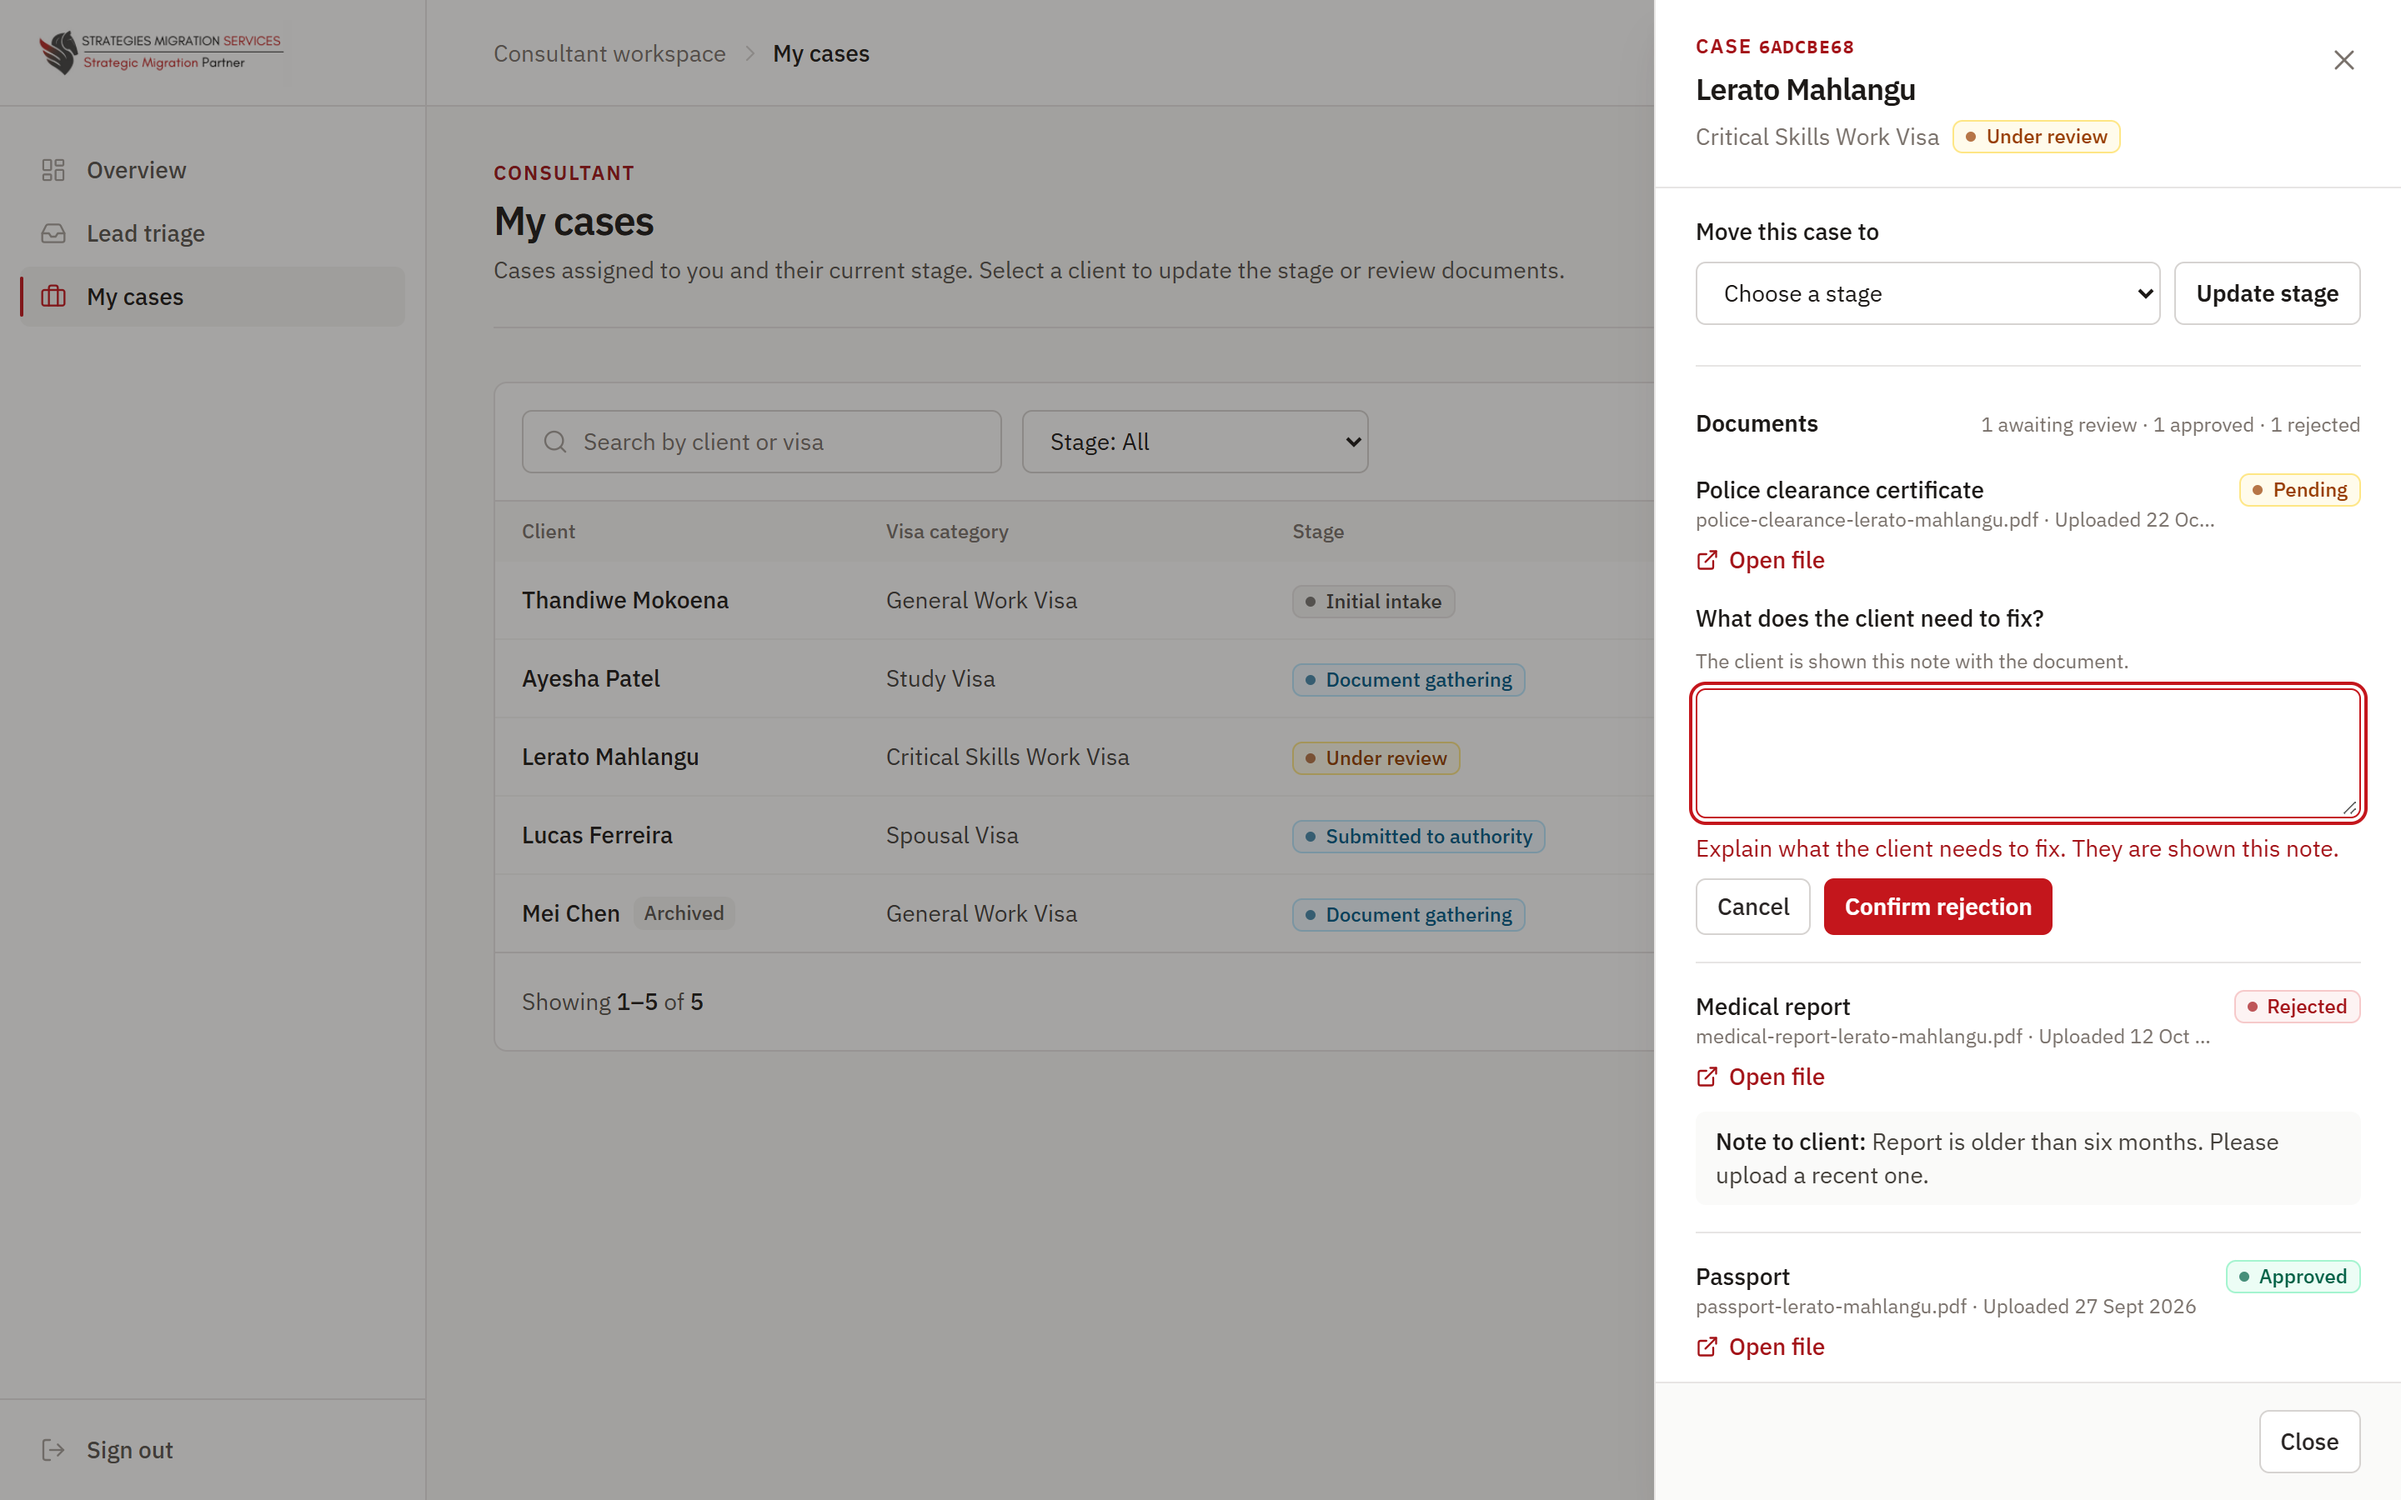
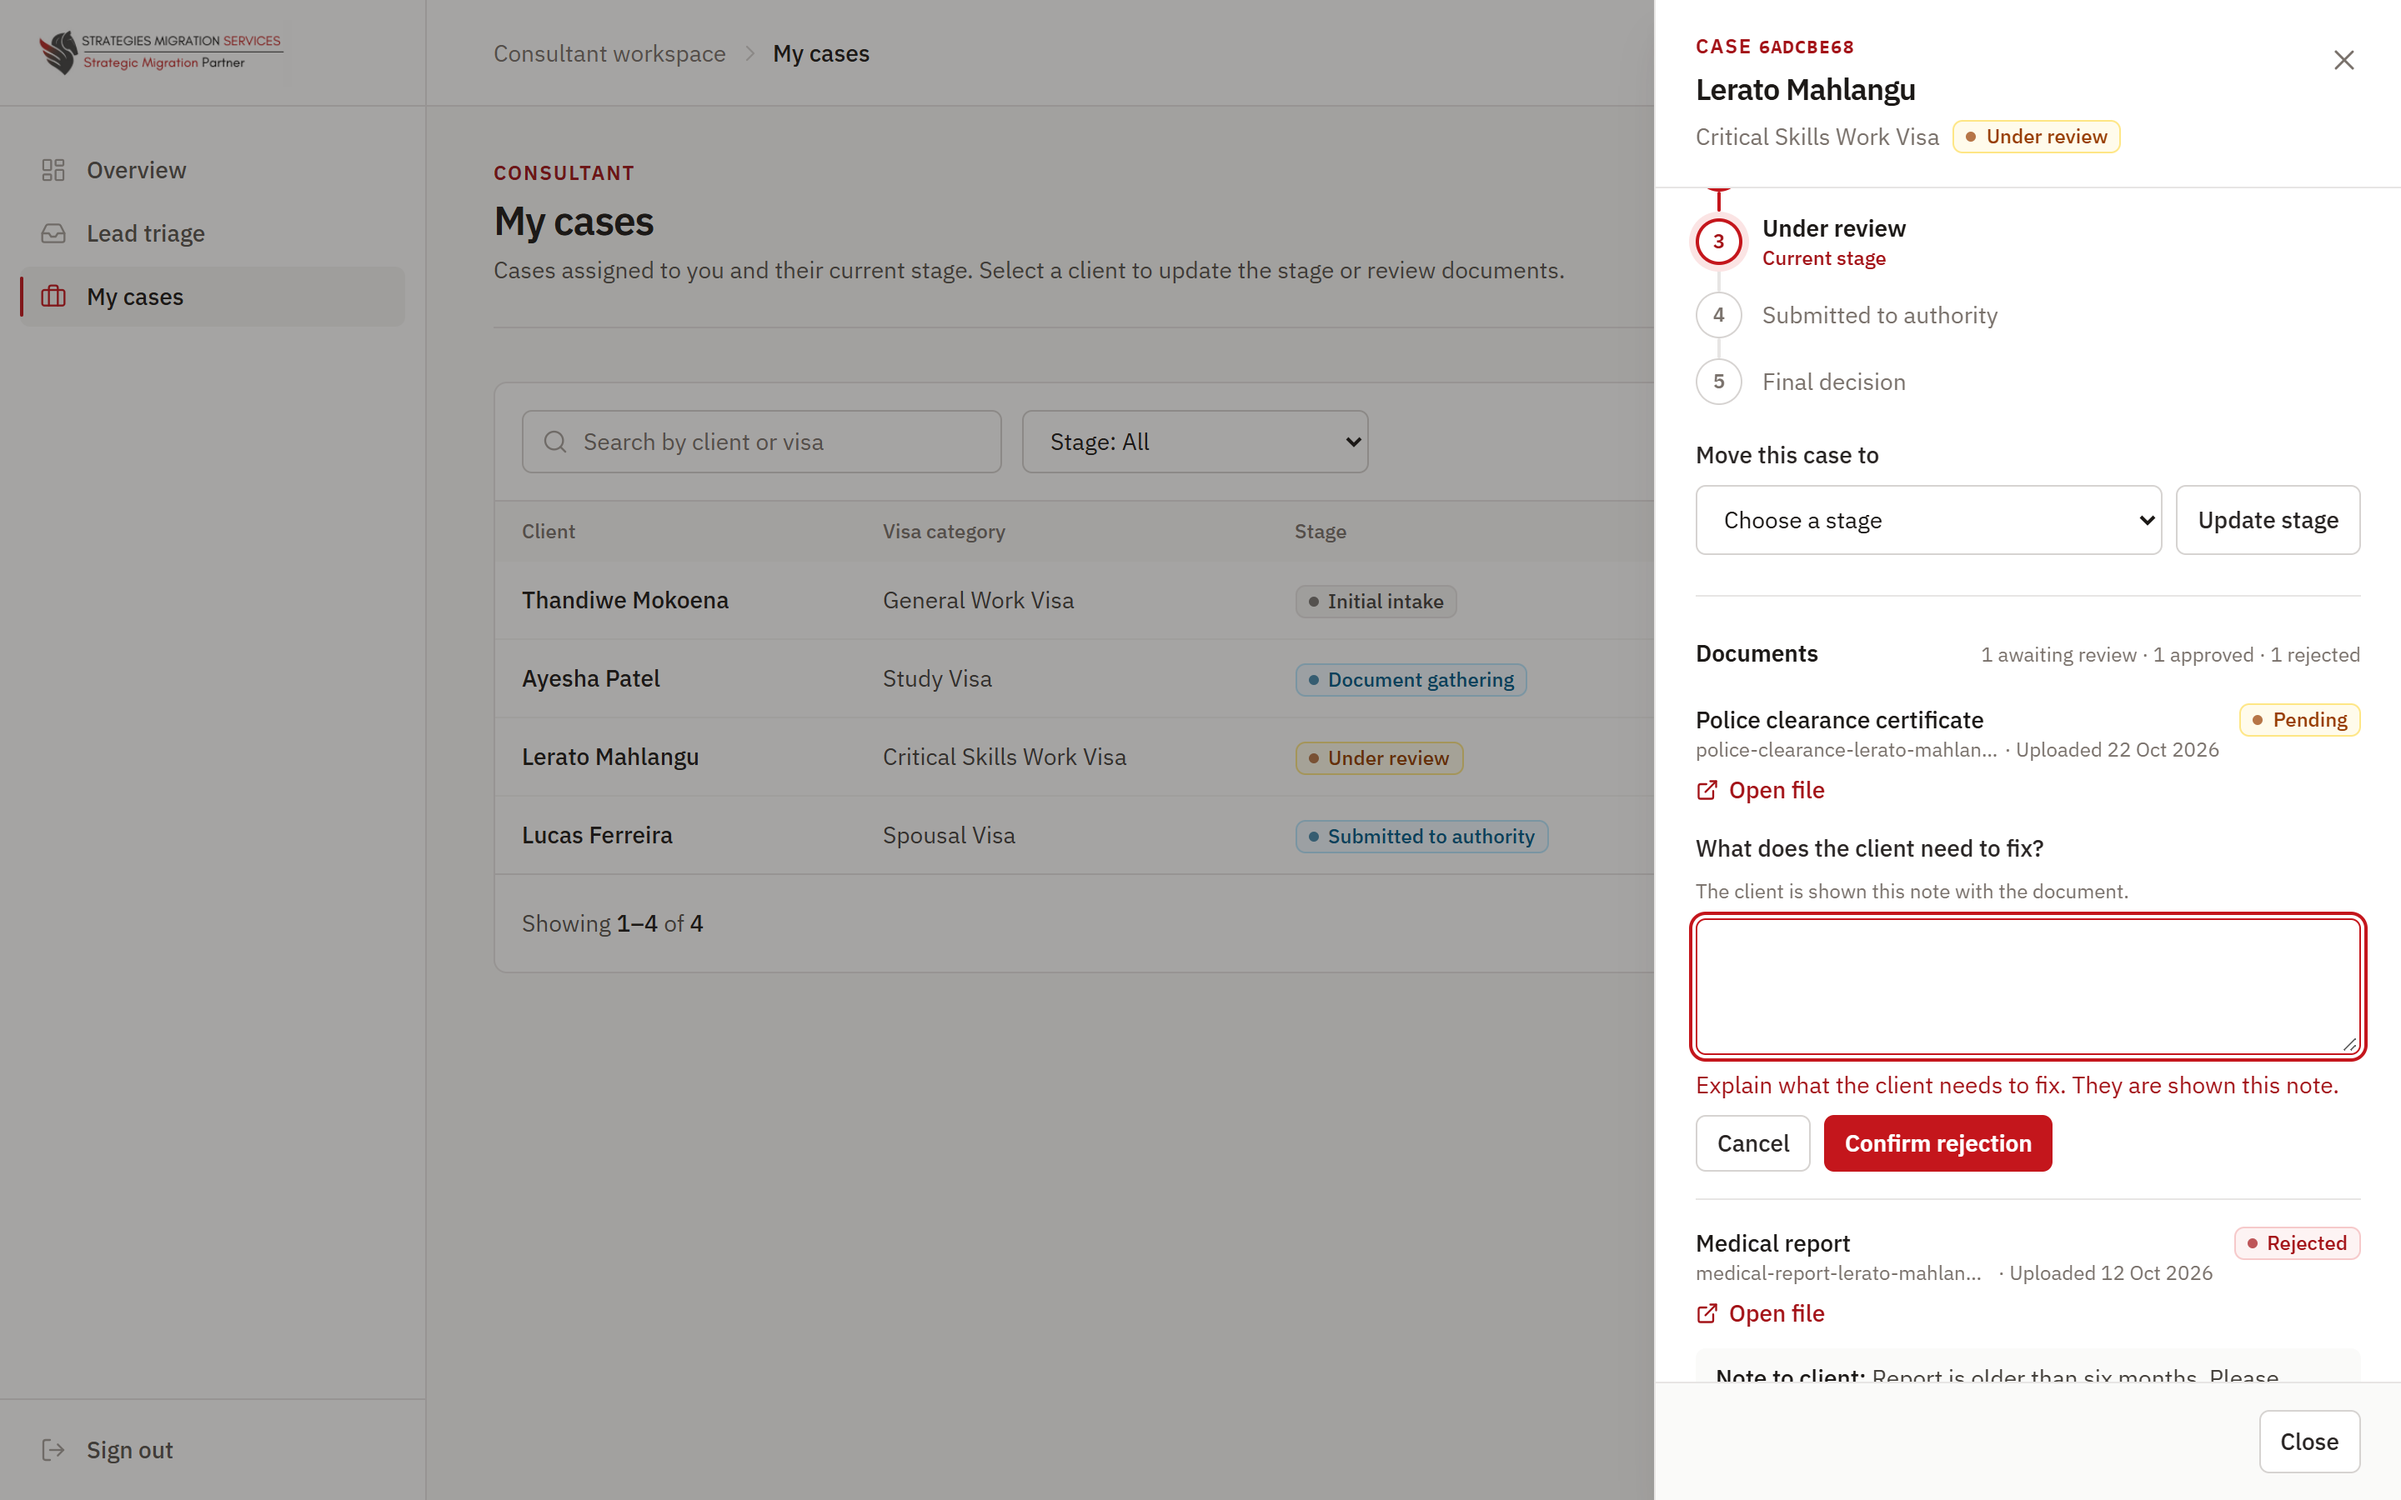
docs: retake web screenshots after the UI polish pass
24 screens retaken from develop plus the polish commits: archived case gone from My cases, Foreign national label, upload date kept visible, stage-change confirmation shown over the panel, shared field and button styles. Phone shots now emulate touch, so no leftover hover style.

diff --git a/docs/screenshots/README.md b/docs/screenshots/README.md
@@ -4,11 +4,11 @@ Screenshots of the web portal for the EXPO deck, the poster board and the [user 
 
 ## How they were taken
 
-- **Code:** `develop` at commit `98ff559` (web and API unchanged).
+- **Code:** `develop` at commit `98ff559` (web and API unchanged). The 24 screens touched by the UI polish pass were retaken on 22 Oct 2026 from `develop` `765d506` plus the polish commits on `feature/riaad-ui-polish`, the two polish commits on `feature/riaad-messaging-web` (without the message thread itself) and the Users page polish on `feature/riaad-admin-edit-user` (without Edit user). Retaken: `public-02-enquiry-errors-mobile`, `client-01` to `client-06`, `consultant-01` to `consultant-09` and `admin-03` to `admin-10`. The earlier versions are in the history of this folder.
 - **Build:** production build of `strategies-web` served by `vite preview`, so the development-only role switcher does not appear. `/api` is proxied to the API on `http://localhost:5151`.
 - **Data:** a local PostgreSQL database with the five migrations and the demo seed in [`database/seed`](../../database/seed). For the pictures only, three placeholder seed names were changed in that local database: "John Doe" became Lerato Mahlangu, "Consultant User" became Nomvula Zulu and "Riaad" became Pieter van Wyk (pieter.vanwyk@nexus.com). The seed files themselves are unchanged. All people, emails and files are made up.
 - **AI triage:** no Gemini key was set, so the new enquiry (Kagiso Molefe) shows the agent's fallback verdict, "Needs review". The seeded leads carry seeded verdicts.
-- **Browser:** Microsoft Edge driven by Playwright, light theme, reduced motion, South African locale and time zone.
+- **Browser:** Microsoft Edge driven by Playwright, light theme, reduced motion, South African locale and time zone. Phone shots emulate a touch screen, so no hover style shows (the first phone enquiry shot had one where the mouse pointer was left).
 - **Size:** desktop 1440 × 900, phone 390 × 844, both at 2× pixel density (2880 × 1800 and 780 px wide). Files ending in `-full` and the phone shots show the whole page, not only the first screen.
 - **Accounts:** the demo accounts in [`database/seed/README.md`](../../database/seed/README.md) (admin@nexus.com, consultant@nexus.com, client@nexus.com).
 
@@ -61,7 +61,7 @@ User-guide sections refer to [USER_GUIDE.md](../USER_GUIDE.md). Each deck sugges
 | `consultant-06-case-documents.png` | Case panel scrolled to the documents | 4 Review documents | |
 | `consultant-07-reject-note-required.png` | Rejecting without a note is blocked | 4 Review documents, 6 | Validation |
 | `consultant-08-stage-change.png` | "Under review" chosen for Ayesha Patel's case | 4 Manage a case | State machine |
-| `consultant-09-stage-changed.png` | Case moved from Document gathering to Under review | 4 Manage a case | State machine |
+| `consultant-09-stage-changed.png` | Case moved from Document gathering to Under review, with confirmation message | 4 Manage a case | State machine |
 
 ### Admin (System Admin, admin@nexus.com)
 
